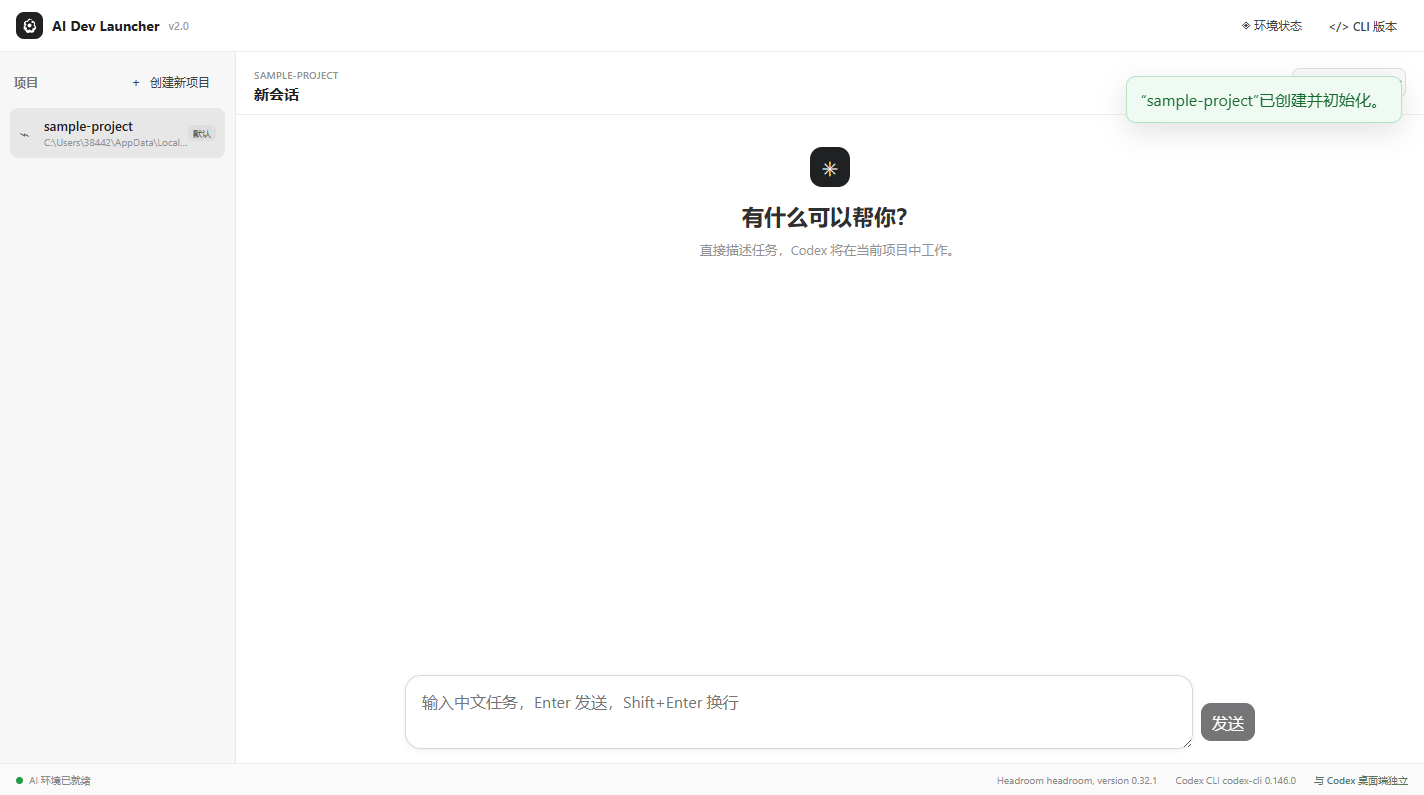
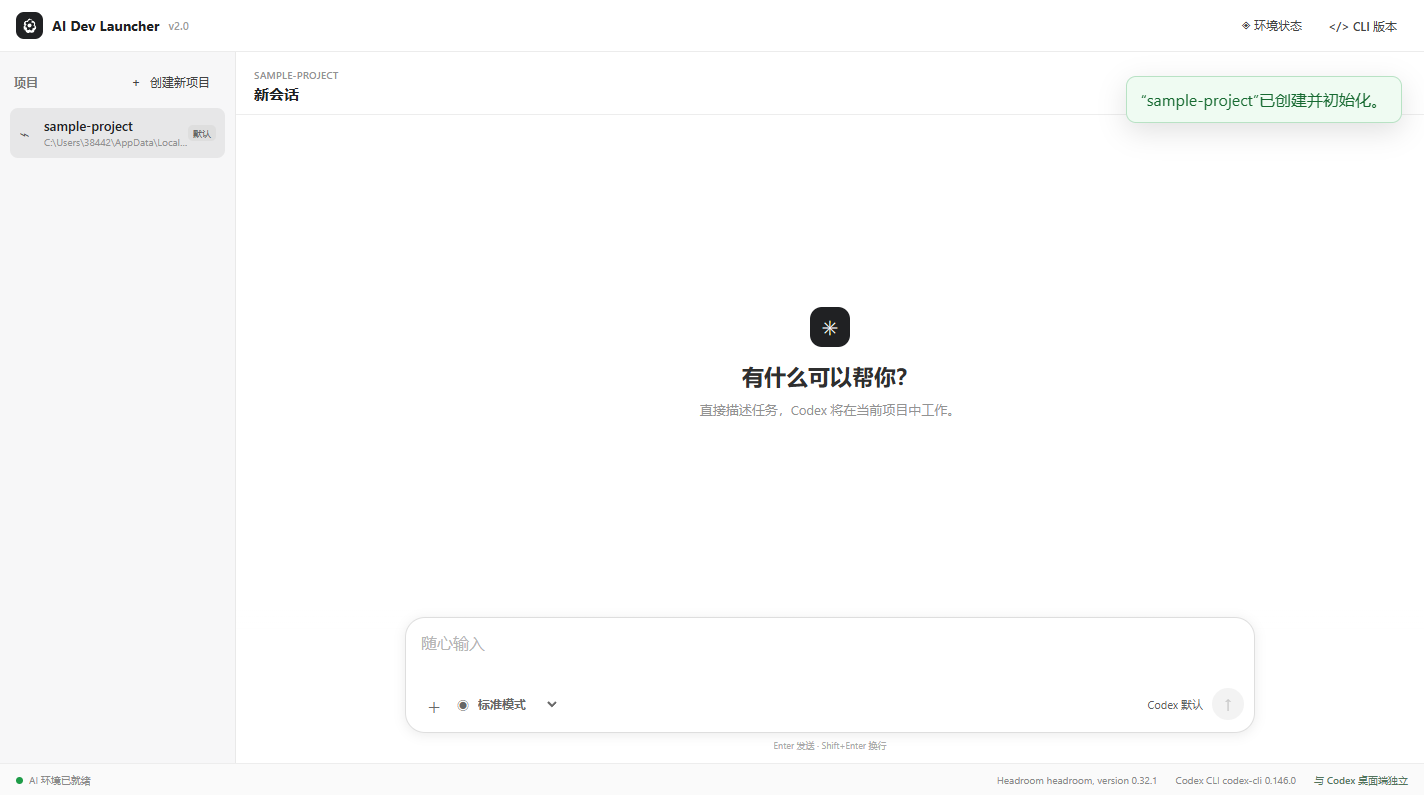
style: redesign Codex composer

diff --git a/desktop/src/components/ChatWorkspace.vue b/desktop/src/components/ChatWorkspace.vue
@@ -73,11 +73,27 @@ onUnmounted(() => dispose?.());
 
 <template>
   <section class="chat-workspace">
-    <div class="conversation"><header class="conversation-header"><div><span class="workspace-kicker">{{ project.name }}</span><h2>{{ active?.name }}</h2></div><div class="conversation-meta"><span>模型：Codex 默认</span><div class="permission-control"><label>权限<select v-model="permission" :disabled="!!runningTask"><option value="standard">标准模式</option><option value="full">完全访问</option></select></label></div></div></header>
+    <div class="conversation"><header class="conversation-header"><div><span class="workspace-kicker">{{ project.name }}</span><h2>{{ active?.name }}</h2></div></header>
       <div v-if="permission === 'full'" class="risk-banner">完全访问允许 Codex 操作项目外文件且不询问审批，请确认当前任务可信。</div>
       <div class="message-list" data-testid="message-list"><div v-if="!active?.messages.length" class="chat-empty"><div class="chat-mark">✳</div><strong>有什么可以帮你？</strong><span>直接描述任务，Codex 将在当前项目中工作。</span></div><article v-for="message in active?.messages ?? []" :key="message.id" :class="['message', message.role]"><span>{{ message.role === "user" ? "你" : message.role === "assistant" ? "Codex" : message.role === "tool" ? "工具" : "状态" }}</span><pre>{{ message.text }}</pre></article></div>
       <div v-if="error" class="chat-error">{{ error }}</div>
-      <footer class="composer"><textarea v-model="prompt" data-testid="chat-prompt" placeholder="输入中文任务，Enter 发送，Shift+Enter 换行" @keydown.enter.exact.prevent="send"></textarea><button v-if="runningTask" class="button danger solid" data-testid="stop-chat" @click="stop">停止</button><button v-else class="button primary" data-testid="send-chat" :disabled="runtime?.status !== 'ready' || !prompt.trim()" @click="send">发送</button></footer>
+      <footer class="composer-shell">
+        <div class="composer-card">
+          <textarea v-model="prompt" data-testid="chat-prompt" placeholder="随心输入" @keydown.enter.exact.prevent="send"></textarea>
+          <div class="composer-toolbar">
+            <div class="composer-tools">
+              <span class="composer-plus" aria-hidden="true">＋</span>
+              <label class="composer-permission" :class="{ elevated: permission === 'full' }"><span aria-hidden="true">◉</span><select v-model="permission" :disabled="!!runningTask"><option value="standard">标准模式</option><option value="full">完全访问</option></select></label>
+            </div>
+            <div class="composer-actions">
+              <span class="composer-model">Codex 默认</span>
+              <button v-if="runningTask" class="composer-send stop" data-testid="stop-chat" title="停止" @click="stop"><span class="sr-only">停止</span><span aria-hidden="true">■</span></button>
+              <button v-else class="composer-send" data-testid="send-chat" title="发送" :disabled="runtime?.status !== 'ready' || !prompt.trim()" @click="send"><span class="sr-only">发送</span><span aria-hidden="true">↑</span></button>
+            </div>
+          </div>
+        </div>
+        <small class="composer-hint">Enter 发送 · Shift+Enter 换行</small>
+      </footer>
     </div>
   </section>
 </template>

diff --git a/desktop/src/styles.css b/desktop/src/styles.css
@@ -360,3 +360,24 @@ body { min-width: 900px; min-height: 560px; }
 .dialog header, .dialog footer { border-color: #ededed; }
 .dialog input:focus { border-color: #777; box-shadow: 0 0 0 3px rgba(0,0,0,.07); }
 .toast { border-radius: 10px; box-shadow: 0 8px 28px rgba(0,0,0,.12); }
+
+.conversation { display: flex; flex-direction: column; }
+.conversation .message-list { flex: 1 1 auto; }
+.composer-shell { padding: 8px max(24px, calc((100% - 850px) / 2)) 12px; background: linear-gradient(transparent, #fff 14%); }
+.composer-card { min-height: 112px; display: grid; grid-template-rows: minmax(54px, auto) 40px; padding: 10px 10px 8px 14px; border: 1px solid #dedede; border-radius: 20px; background: #fff; box-shadow: 0 2px 12px rgba(0,0,0,.08); }
+.composer-card:focus-within { border-color: #c8c8c8; box-shadow: 0 3px 16px rgba(0,0,0,.1); }
+.composer-card textarea { width: 100%; min-height: 54px; max-height: 150px; padding: 3px 1px; resize: none; border: 0; outline: 0; color: #292929; background: transparent; font: inherit; line-height: 1.55; }
+.composer-card textarea::placeholder { color: #b6b6b6; }
+.composer-toolbar { display: flex; align-items: center; justify-content: space-between; gap: 12px; }
+.composer-tools, .composer-actions { display: flex; align-items: center; gap: 9px; }
+.composer-plus { width: 28px; height: 28px; display: grid; place-items: center; color: #696969; font-size: 22px; font-weight: 300; }
+.composer-permission { display: flex; align-items: center; gap: 3px; color: #676767; font-size: 12px; }
+.composer-permission.elevated { color: #ef5b2a; }
+.composer-permission select { max-width: 88px; height: 28px; padding: 0 18px 0 2px; border: 0; outline: 0; color: inherit; background: transparent; font: inherit; font-weight: 550; cursor: pointer; }
+.composer-model { color: #5f5f5f; font-size: 11px; }
+.composer-send { width: 32px; height: 32px; display: grid; place-items: center; padding: 0; border: 0; border-radius: 50%; color: #fff; background: #202123; font-size: 18px; font-weight: 600; line-height: 1; }
+.composer-send:hover:not(:disabled) { background: #383838; }
+.composer-send:disabled { color: #a9a9a9; background: #ececec; }
+.composer-send.stop { color: #fff; background: #d54a3a; font-size: 11px; }
+.composer-hint { display: block; margin-top: 6px; color: #aaa; text-align: center; font-size: 9px; }
+.sr-only { position: absolute; width: 1px; height: 1px; padding: 0; margin: -1px; overflow: hidden; clip: rect(0,0,0,0); white-space: nowrap; border: 0; }

diff --git a/tests/test_cli.py b/tests/test_cli.py
@@ -12,7 +12,7 @@ def test_version():
     result = runner.invoke(app, ["--version"])
 
     assert result.exit_code == 0
-    assert "AI Dev Launcher 2.0.3" in result.stdout
+    assert "AI Dev Launcher 2.0.4" in result.stdout
 
 
 def test_no_args_shows_help():

diff --git a/src/ai_dev_launcher/__init__.py b/src/ai_dev_launcher/__init__.py
@@ -1,3 +1,3 @@
 """AI Dev Launcher."""
 
-__version__ = "2.0.3"
+__version__ = "2.0.4"

diff --git a/RELEASE_NOTES_2.0.4.md b/RELEASE_NOTES_2.0.4.md
@@ -1,0 +1,8 @@
+# AI Dev Launcher v2.0.4
+
+- 输入区改为 Codex 风格的大圆角卡片。
+- 权限选择移动到输入框左下方。
+- 模型标识与圆形发送按钮移动到右下方。
+- 输入框固定在对话区底部，支持 Enter 发送和 Shift+Enter 换行。
+- 保持原有对话逻辑以及与 Codex 桌面端的独立性。
+
